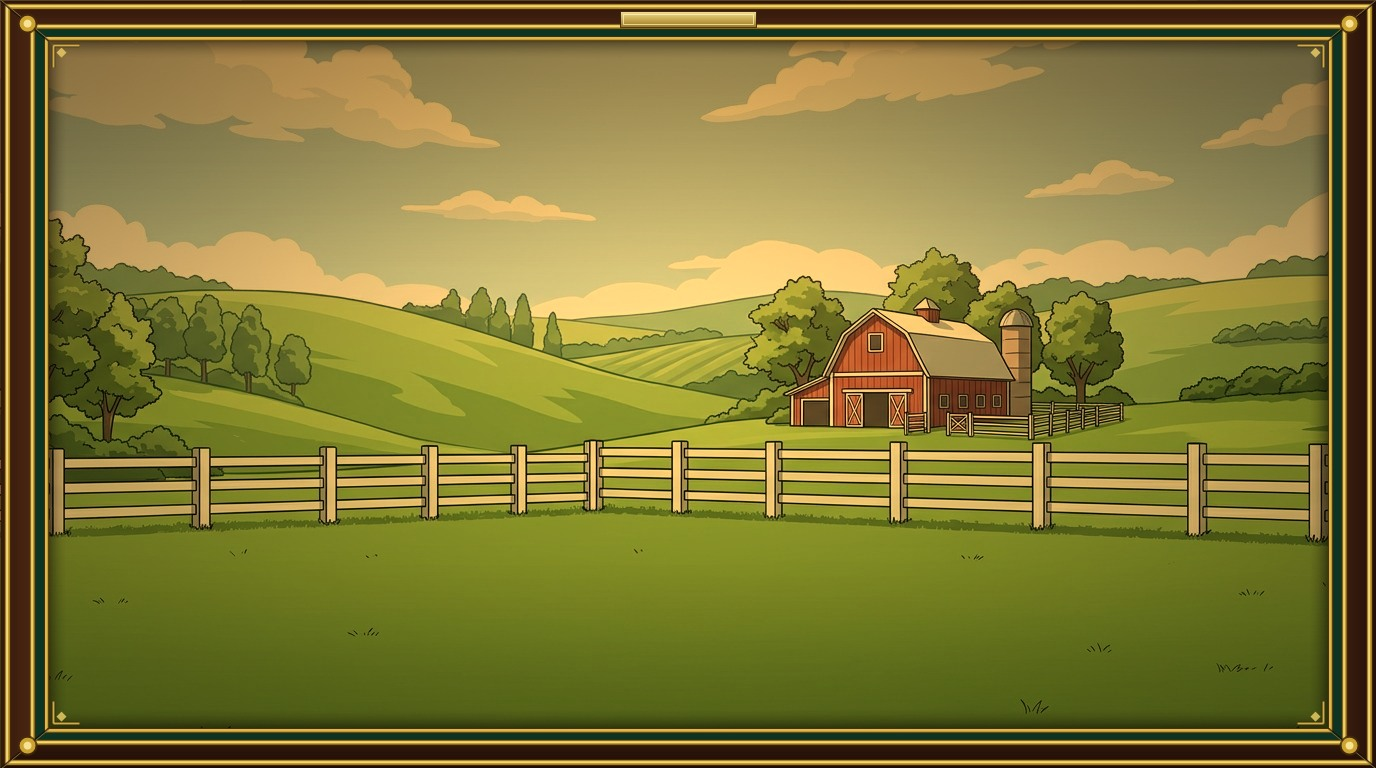
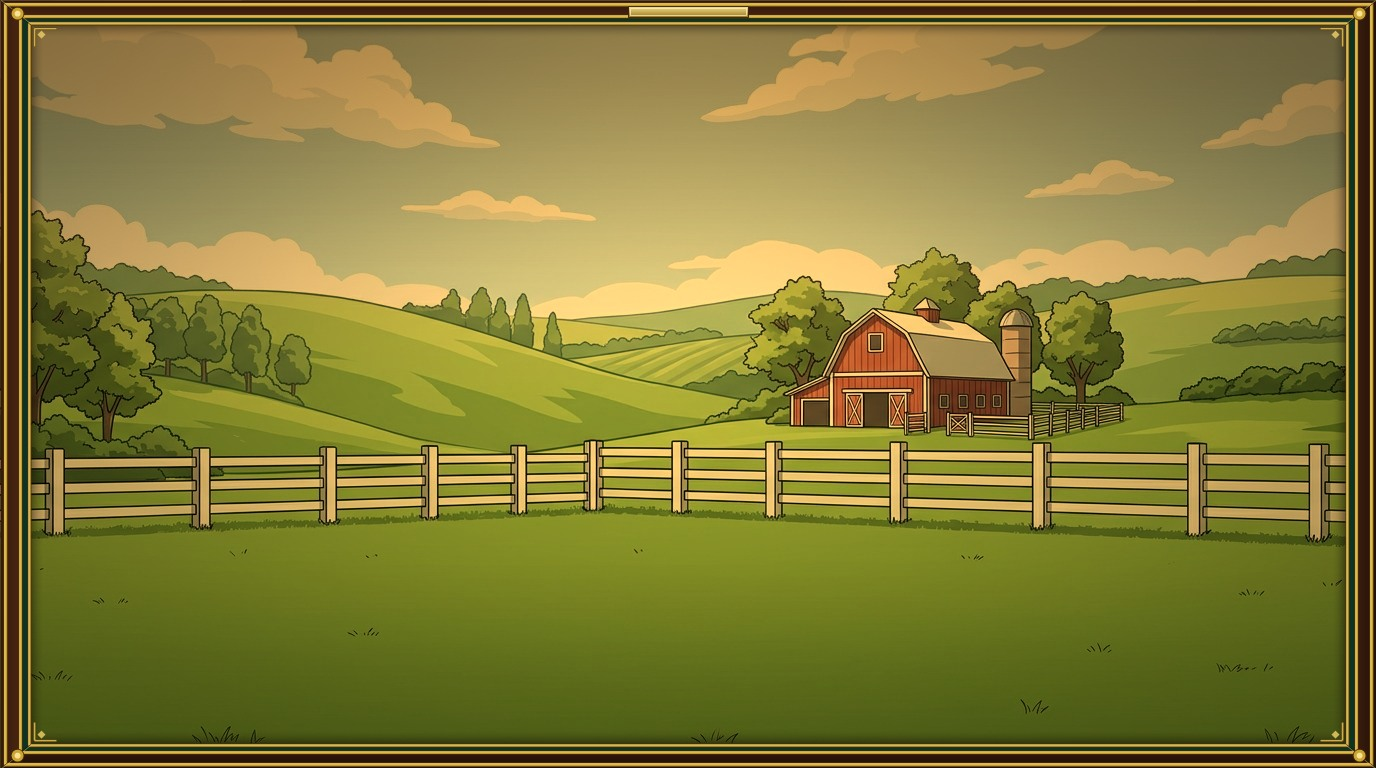
style(hall-of-fame): refine portrait frame thickness and horse scale to prevent hoof overlap (#108)
- Reduce outer portrait frame border thickness in bg_hall_of_fame.jpg (X: 48px -> 30px, Y: 40px -> 24px)
- Apply scale-90 -translate-y-1 to horse illustration layer when backgroundOverride is 'hall_of_fame' so both ears and hooves have clean margin inside the frame

Changed region(s): [[0.0, 0.0, 1.0, 1.0]]

diff --git a/src/components/HorseIllustration.tsx b/src/components/HorseIllustration.tsx
@@ -141,7 +141,9 @@ export const HorseIllustration: FC<HorseIllustrationProps> = ({
           alt={alt ?? defaultAlt}
           loading={priority ? 'eager' : 'lazy'}
           decoding="async"
-          className="relative z-10 w-full h-full object-contain"
+          className={`relative z-10 w-full h-full object-contain ${
+            bgType === 'hall_of_fame' ? 'scale-90 -translate-y-1' : ''
+          }`}
         />
       ) : (
         <canvas
@@ -151,8 +153,8 @@ export const HorseIllustration: FC<HorseIllustrationProps> = ({
           role="img"
           aria-label={alt ?? defaultAlt}
           className={`relative z-10 w-full h-full object-contain transition-opacity duration-300 drop-shadow-[0_4px_6px_rgba(0,0,0,0.35)] ${
-            isHorseReady ? 'opacity-100' : 'opacity-0'
-          }`}
+            bgType === 'hall_of_fame' ? 'scale-90 -translate-y-1' : ''
+          } ${isHorseReady ? 'opacity-100' : 'opacity-0'}`}
         />
       )}
 
